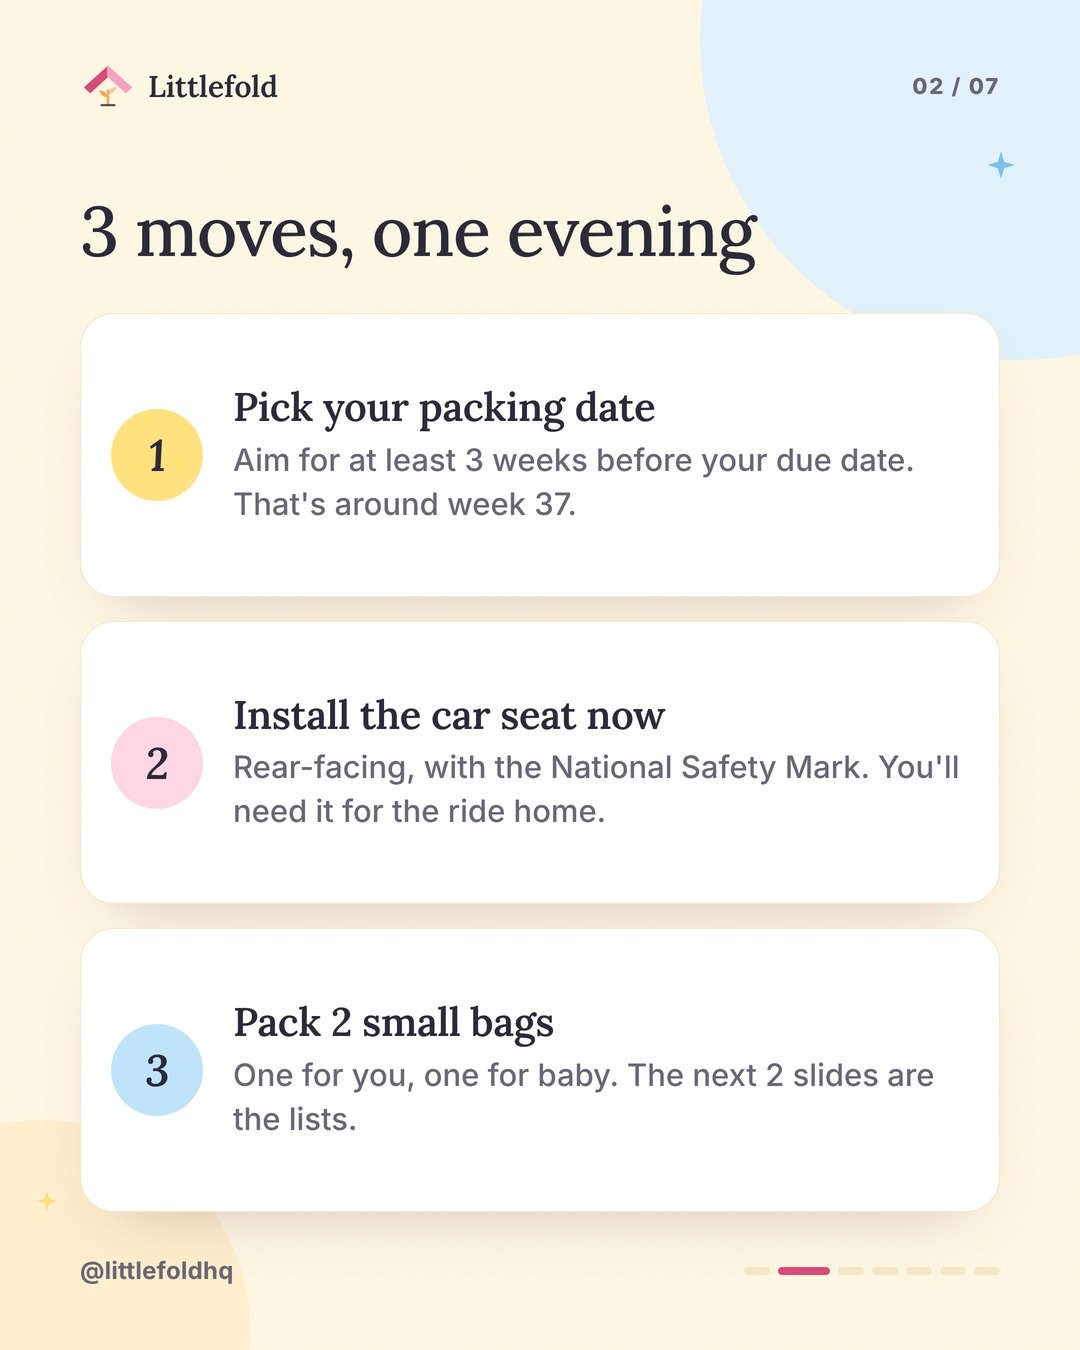
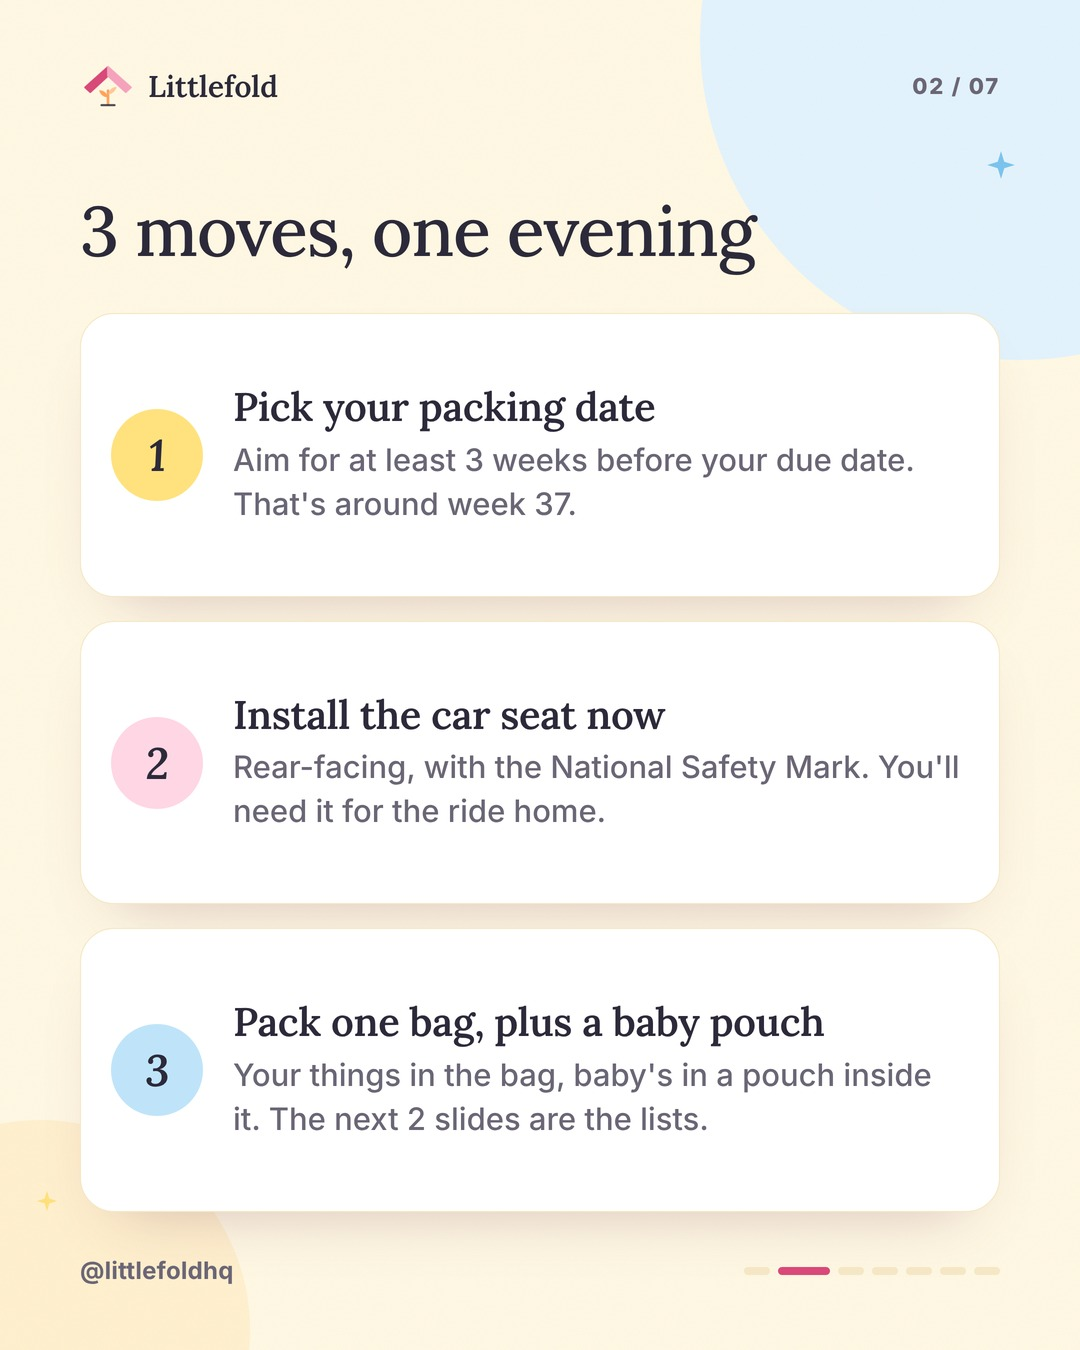
Turn on Littlefold (6 posts, Oct 15-20 at 11:30); hospital-bag post now matches the free guide; README lists 4 accounts
Claude-Session: https://claude.ai/code/session_01PJwkTdhx1VuEhXpAhTUaLc

Changed region(s): [[0.2139, 0.7467, 0.8556, 0.84]]

diff --git a/README.md b/README.md
@@ -1,12 +1,13 @@
 # Steadfold Autopost
 
-Posts Steadfold's Instagram carousels **by itself, on schedule**, for three accounts:
+Posts Steadfold's Instagram carousels **by itself, on schedule**, for four accounts:
 
 | Account | Usual time (Toronto) |
 |---|---|
 | @fullyfundedhq | 12:00 pm |
 | @lockedhourhq | 12:30 pm |
 | @hourbackhq | 1:00 pm |
+| @littlefoldhq | 11:30 am |
 
 Once it's set up, there is **no daily work**. You add a week of posts once a week, and that's it.
 
@@ -24,7 +25,7 @@ Once it's set up, there is **no daily work**. You add a week of posts once a wee
   6. writes the result (post link, time) into `state/published.json`.
 - It **never posts the same thing twice**. It saves progress after every step, and before posting it also checks the account's latest posts on Instagram.
 - If something fails, it carries on with the other posts. The run is then marked as failed, and **GitHub emails you**.
-- Once a week, a second robot renews the three Instagram tokens so they never expire (they last 60 days).
+- Once a week, a second robot renews the four Instagram tokens so they never expire (they last 60 days).
 
 It uses only Instagram's official API ("Instagram API with Instagram Login") and GitHub. It doesn't need a Facebook Page, Meta Business Suite or Chrome.
 
@@ -86,6 +87,7 @@ You'll do this once. Steps 5 to 9 can be done with **Claude in Chrome**: paste `
      | @fullyfundedhq | `IG_TOKEN_FULLYFUNDED` |
      | @lockedhourhq | `IG_TOKEN_LOCKEDHOUR` |
      | @hourbackhq | `IG_TOKEN_HOURBACK` |
+     | @littlefoldhq | `IG_TOKEN_LITTLEFOLD` |
    - Repeat for all three accounts. Log out of Instagram in the pop-up between accounts.
 
 ### Part C: The token-renewer key and the first check
